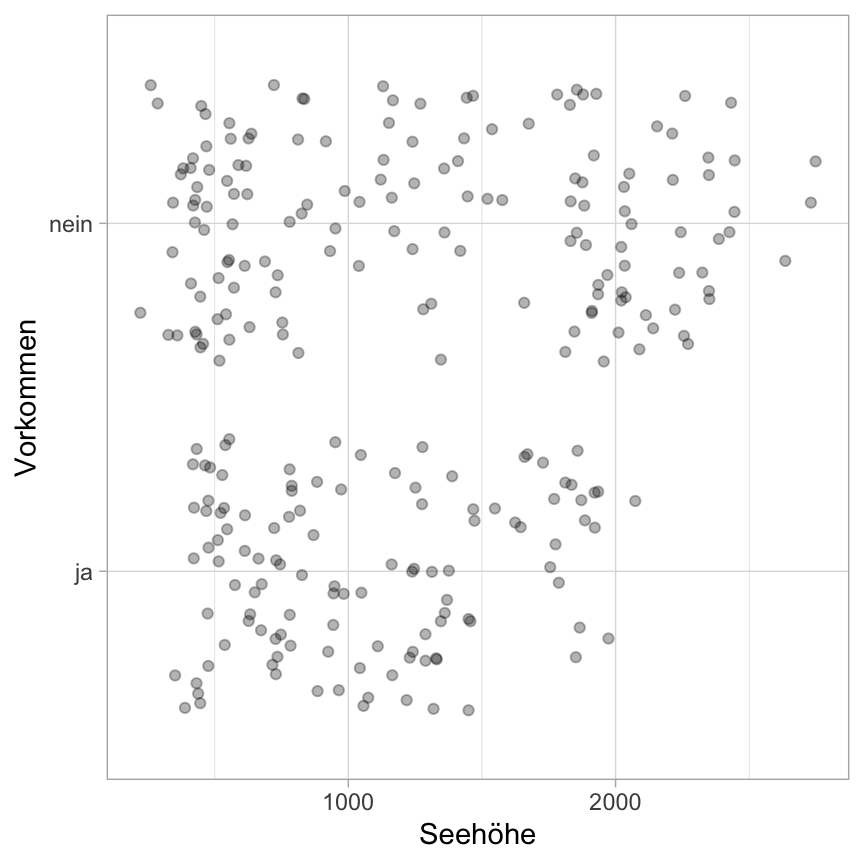
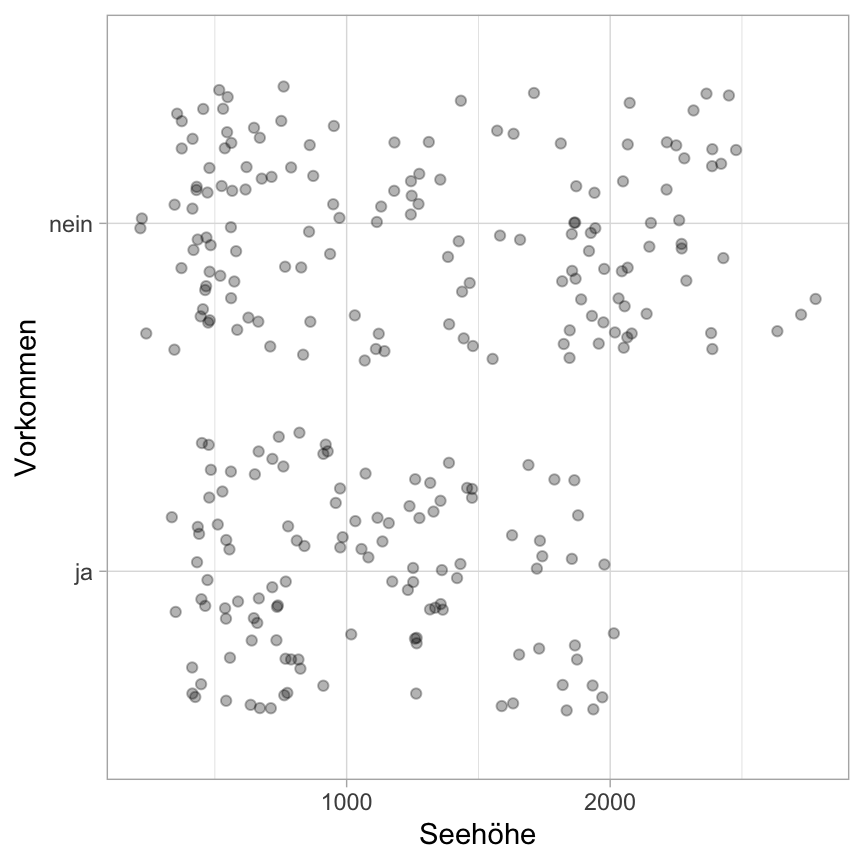
w13

diff --git a/docs/content/uebungen/ue_w12_w13.html b/docs/content/uebungen/ue_w12_w13.html
@@ -267,7 +267,7 @@ window.Quarto = {
  <span class="dropdown-text">10. Streifgebiete</span></a>
   </li>  
         <li>
-    <a class="dropdown-item" href="../../content/uebungen/ue_w12_w13_hr.qmd">
+    <a class="dropdown-item" href="../../content/uebungen/ue_w12_w13.html">
  <span class="dropdown-text">11. &amp; 12. Habitatselektion</span></a>
   </li>  
     </ul>
@@ -882,8 +882,8 @@ Lösungsvorschlag
 <span id="cb30-5"><a href="#cb30-5" aria-hidden="true" tabindex="-1"></a><span class="fu">AIC</span>(m1, m2)</span></code><button title="In die Zwischenablage kopieren" class="code-copy-button"><i class="bi"></i></button></pre></div>
 <div class="cell-output cell-output-stdout">
 <pre><code>   df      AIC
-m1  3 8851.085
-m2  3 8411.510</code></pre>
+m1  3 8819.620
+m2  3 8398.238</code></pre>
 </div>
 <div class="sourceCode cell-code" id="cb32"><pre class="sourceCode r code-with-copy"><code class="sourceCode r"><span id="cb32-1"><a href="#cb32-1" aria-hidden="true" tabindex="-1"></a><span class="co"># 4: Modell mit log1p-Transformation</span></span>
 <span id="cb32-2"><a href="#cb32-2" aria-hidden="true" tabindex="-1"></a><span class="co"># log1p vermeidet log(0) und gewichtet kleine Distanzen stärker</span></span>
@@ -892,9 +892,9 @@ m2  3 8411.510</code></pre>
 <span id="cb32-5"><a href="#cb32-5" aria-hidden="true" tabindex="-1"></a><span class="fu">AIC</span>(m1, m2, m2a)</span></code><button title="In die Zwischenablage kopieren" class="code-copy-button"><i class="bi"></i></button></pre></div>
 <div class="cell-output cell-output-stdout">
 <pre><code>    df      AIC
-m1   3 8851.085
-m2   3 8411.510
-m2a  3 8160.192</code></pre>
+m1   3 8819.620
+m2   3 8398.238
+m2a  3 8151.599</code></pre>
 </div>
 <div class="sourceCode cell-code" id="cb34"><pre class="sourceCode r code-with-copy"><code class="sourceCode r"><span id="cb34-1"><a href="#cb34-1" aria-hidden="true" tabindex="-1"></a><span class="fu">summary</span>(m2a)</span></code><button title="In die Zwischenablage kopieren" class="code-copy-button"><i class="bi"></i></button></pre></div>
 <div class="cell-output cell-output-stdout">
@@ -905,17 +905,17 @@ glm(formula = case_ ~ wald + log1p(dsiedlung), family = binomial(),
 
 Coefficients:
                  Estimate Std. Error z value Pr(&gt;|z|)    
-(Intercept)      -9.04762    0.29851  -30.31   &lt;2e-16 ***
-wald              1.14779    0.06571   17.47   &lt;2e-16 ***
-log1p(dsiedlung)  0.98584    0.04698   20.98   &lt;2e-16 ***
+(Intercept)      -9.01199    0.29999  -30.04   &lt;2e-16 ***
+wald              1.15926    0.06597   17.57   &lt;2e-16 ***
+log1p(dsiedlung)  0.97964    0.04734   20.70   &lt;2e-16 ***
 ---
 Signif. codes:  0 '***' 0.001 '**' 0.01 '*' 0.05 '.' 0.1 ' ' 1
 
 (Dispersion parameter for binomial family taken to be 1)
 
     Null deviance: 9550.3  on 15674  degrees of freedom
-Residual deviance: 8154.2  on 15672  degrees of freedom
-AIC: 8160.2
+Residual deviance: 8145.6  on 15672  degrees of freedom
+AIC: 8151.6
 
 Number of Fisher Scoring iterations: 7</code></pre>
 </div>
@@ -1008,8 +1008,8 @@ Lösungsvorschlag
 <span id="cb38-5"><a href="#cb38-5" aria-hidden="true" tabindex="-1"></a><span class="fu">AIC</span>(m2a, m3a)</span></code><button title="In die Zwischenablage kopieren" class="code-copy-button"><i class="bi"></i></button></pre></div>
 <div class="cell-output cell-output-stdout">
 <pre><code>    df      AIC
-m2a  3 8160.192
-m3a  5 7760.581</code></pre>
+m2a  3 8151.599
+m3a  5 7726.103</code></pre>
 </div>
 <div class="sourceCode cell-code" id="cb40"><pre class="sourceCode r code-with-copy"><code class="sourceCode r"><span id="cb40-1"><a href="#cb40-1" aria-hidden="true" tabindex="-1"></a><span class="fu">summary</span>(m3a)</span></code><button title="In die Zwischenablage kopieren" class="code-copy-button"><i class="bi"></i></button></pre></div>
 <div class="cell-output cell-output-stdout">
@@ -1020,19 +1020,19 @@ glm(formula = case_ ~ wald + wald:tod_ + log1p(dsiedlung) + log1p(dsiedlung):tod
 
 Coefficients:
                            Estimate Std. Error z value Pr(&gt;|z|)    
-(Intercept)                -9.51028    0.30773  -30.90   &lt;2e-16 ***
-wald                        3.27664    0.17569   18.65   &lt;2e-16 ***
-log1p(dsiedlung)            0.78389    0.04847   16.17   &lt;2e-16 ***
-wald:tod_night             -3.32061    0.19886  -16.70   &lt;2e-16 ***
-tod_night:log1p(dsiedlung)  0.36748    0.02790   13.17   &lt;2e-16 ***
+(Intercept)                -9.73147    0.30898  -31.50   &lt;2e-16 ***
+wald                        3.23728    0.17294   18.72   &lt;2e-16 ***
+log1p(dsiedlung)            0.82547    0.04846   17.03   &lt;2e-16 ***
+wald:tod_night             -3.23947    0.19609  -16.52   &lt;2e-16 ***
+tod_night:log1p(dsiedlung)  0.35905    0.02747   13.07   &lt;2e-16 ***
 ---
 Signif. codes:  0 '***' 0.001 '**' 0.01 '*' 0.05 '.' 0.1 ' ' 1
 
 (Dispersion parameter for binomial family taken to be 1)
 
     Null deviance: 9550.3  on 15674  degrees of freedom
-Residual deviance: 7750.6  on 15670  degrees of freedom
-AIC: 7760.6
+Residual deviance: 7716.1  on 15670  degrees of freedom
+AIC: 7726.1
 
 Number of Fisher Scoring iterations: 7</code></pre>
 </div>

diff --git a/docs/content/slides/09/09_me_4.html b/docs/content/slides/09/09_me_4.html
@@ -341,12 +341,12 @@ w(\mathbf{X}(s); \mathbf{\beta}) = \exp(X_1(s)\beta_1 + \dots + X_k(s)\beta_k)
 <pre><code># A tibble: 6 × 4
   case_       x_       y_ elevation
 * &lt;lgl&gt;    &lt;dbl&gt;    &lt;dbl&gt;     &lt;dbl&gt;
-1 FALSE 1783768. 2403218.      96.4
-2 FALSE 1783687. 2402264.     103. 
-3 FALSE 1782870. 2404125.      98.0
-4 FALSE 1783202. 2401597.     103. 
-5 FALSE 1782254. 2402336.      99.9
-6 FALSE 1783692. 2403179.      97.8</code></pre>
+1 FALSE 1781787. 2403007.      98.1
+2 FALSE 1782727. 2403151.      97.7
+3 FALSE 1781411. 2404122.     103. 
+4 FALSE 1781886. 2404161.     107. 
+5 FALSE 1781049. 2403096.      95.0
+6 FALSE 1783035. 2402731.     105. </code></pre>
 </div>
 </div>
 </section>
@@ -371,16 +371,16 @@ glm(formula = case_ ~ elevation, family = binomial(), data = m3)
 
 Coefficients:
              Estimate Std. Error z value Pr(&gt;|z|)    
-(Intercept) -7.430957   0.331289  -22.43   &lt;2e-16 ***
-elevation    0.050019   0.003205   15.61   &lt;2e-16 ***
+(Intercept) -7.515044   0.329143  -22.83   &lt;2e-16 ***
+elevation    0.050852   0.003184   15.97   &lt;2e-16 ***
 ---
 Signif. codes:  0 '***' 0.001 '**' 0.01 '*' 0.05 '.' 0.1 ' ' 1
 
 (Dispersion parameter for binomial family taken to be 1)
 
     Null deviance: 20133  on 33043  degrees of freedom
-Residual deviance: 19899  on 33042  degrees of freedom
-AIC: 19903
+Residual deviance: 19888  on 33042  degrees of freedom
+AIC: 19892
 
 Number of Fisher Scoring iterations: 5</code></pre>
 </div>
@@ -408,7 +408,7 @@ Number of Fisher Scoring iterations: 5</code></pre>
 <div class="sourceCode cell-code" id="cb9"><pre class="sourceCode r code-with-copy"><code class="sourceCode r"><span id="cb9-1"><a aria-hidden="true" tabindex="-1"></a><span class="fu">coef</span>(mod1)</span></code><button title="Copy to Clipboard" class="code-copy-button"><i class="bi"></i></button></pre></div>
 <div class="cell-output cell-output-stdout">
 <pre><code>(Intercept)   elevation 
--7.43095690  0.05001906 </code></pre>
+-7.51504373  0.05085177 </code></pre>
 </div>
 </div>
 <p>Nehmen wir für Punkt <span class="math inline">\(s_1\)</span> eine Seehöhe von 100 m und für Punkt <span class="math inline">\(s_2\)</span> eine Seehöhe von 101 m an. Die Relative Selektionsstärke für Punkt <span class="math inline">\(s_2\)</span> gegenüber Punkte <span class="math inline">\(s_1\)</span> ist dann:</p>
@@ -437,7 +437,7 @@ RSS(s_2, s_1) &amp;=\frac{w(s_2)}{w(s_1)} = \frac{\exp(101 \beta_\text{dem})}{\e
 <div class="sourceCode cell-code" id="cb11"><pre class="sourceCode r code-with-copy"><code class="sourceCode r"><span id="cb11-1"><a aria-hidden="true" tabindex="-1"></a><span class="fu">exp</span>(<span class="fu">coef</span>(mod1)[<span class="dv">2</span>])</span></code><button title="Copy to Clipboard" class="code-copy-button"><i class="bi"></i></button></pre></div>
 <div class="cell-output cell-output-stdout">
 <pre><code>elevation 
- 1.051291 </code></pre>
+ 1.052167 </code></pre>
 </div>
 </div>
 <div class="fragment">
@@ -446,7 +446,7 @@ RSS(s_2, s_1) &amp;=\frac{w(s_2)}{w(s_1)} = \frac{\exp(101 \beta_\text{dem})}{\e
 <div class="sourceCode cell-code" id="cb13"><pre class="sourceCode r code-with-copy"><code class="sourceCode r"><span id="cb13-1"><a aria-hidden="true" tabindex="-1"></a><span class="fu">exp</span>(<span class="fu">coef</span>(mod1)[<span class="dv">2</span>] <span class="sc">*</span> <span class="dv">101</span>) <span class="sc">/</span> <span class="fu">exp</span>(<span class="fu">coef</span>(mod1)[<span class="dv">2</span>] <span class="sc">*</span> <span class="dv">100</span>)</span></code><button title="Copy to Clipboard" class="code-copy-button"><i class="bi"></i></button></pre></div>
 <div class="cell-output cell-output-stdout">
 <pre><code>elevation 
- 1.051291 </code></pre>
+ 1.052167 </code></pre>
 </div>
 </div>
 </div>
@@ -493,17 +493,17 @@ glm(formula = case_ ~ elevation + elevation:tod_, family = binomial(),
 
 Coefficients:
                       Estimate Std. Error z value Pr(&gt;|z|)    
-(Intercept)         -7.3279163  0.3466605 -21.139  &lt; 2e-16 ***
-elevation            0.0255878  0.0034715   7.371  1.7e-13 ***
-elevation:tod_night  0.0297296  0.0008671  34.287  &lt; 2e-16 ***
+(Intercept)         -7.3012688  0.3501598 -20.851  &lt; 2e-16 ***
+elevation            0.0252818  0.0035048   7.213 5.45e-13 ***
+elevation:tod_night  0.0298061  0.0008671  34.374  &lt; 2e-16 ***
 ---
 Signif. codes:  0 '***' 0.001 '**' 0.01 '*' 0.05 '.' 0.1 ' ' 1
 
 (Dispersion parameter for binomial family taken to be 1)
 
     Null deviance: 20133  on 33043  degrees of freedom
-Residual deviance: 17059  on 33041  degrees of freedom
-AIC: 17065
+Residual deviance: 17045  on 33041  degrees of freedom
+AIC: 17051
 
 Number of Fisher Scoring iterations: 7</code></pre>
 </div>

diff --git a/docs/content/uebungen/ue_w11_hr.html b/docs/content/uebungen/ue_w11_hr.html
@@ -238,7 +238,7 @@ pre > code.sourceCode > span > a:first-child::before { text-decoration: underlin
  <span class="dropdown-text">10. Streifgebiete</span></a>
   </li>  
         <li>
-    <a class="dropdown-item" href="../../content/uebungen/ue_w12_w13_hr.qmd">
+    <a class="dropdown-item" href="../../content/uebungen/ue_w12_w13.html">
  <span class="dropdown-text">11. &amp; 12. Habitatselektion</span></a>
   </li>  
     </ul>

diff --git a/docs/content/uebungen/ue_w4_luchs.html b/docs/content/uebungen/ue_w4_luchs.html
@@ -238,7 +238,7 @@ pre > code.sourceCode > span > a:first-child::before { text-decoration: underlin
  <span class="dropdown-text">10. Streifgebiete</span></a>
   </li>  
         <li>
-    <a class="dropdown-item" href="../../content/uebungen/ue_w12_w13_hr.qmd">
+    <a class="dropdown-item" href="../../content/uebungen/ue_w12_w13.html">
  <span class="dropdown-text">11. &amp; 12. Habitatselektion</span></a>
   </li>  
     </ul>

diff --git a/docs/content/uebungen/uebung_w1.html b/docs/content/uebungen/uebung_w1.html
@@ -238,7 +238,7 @@ pre > code.sourceCode > span > a:first-child::before { text-decoration: underlin
  <span class="dropdown-text">10. Streifgebiete</span></a>
   </li>  
         <li>
-    <a class="dropdown-item" href="../../content/uebungen/ue_w12_w13_hr.qmd">
+    <a class="dropdown-item" href="../../content/uebungen/ue_w12_w13.html">
  <span class="dropdown-text">11. &amp; 12. Habitatselektion</span></a>
   </li>  
     </ul>

diff --git a/docs/content/vorlesungen/04-vorlesung.html b/docs/content/vorlesungen/04-vorlesung.html
@@ -237,7 +237,7 @@ pre > code.sourceCode > span > a:first-child::before { text-decoration: underlin
  <span class="dropdown-text">10. Streifgebiete</span></a>
   </li>  
         <li>
-    <a class="dropdown-item" href="../../content/uebungen/ue_w12_w13_hr.qmd">
+    <a class="dropdown-item" href="../../content/uebungen/ue_w12_w13.html">
  <span class="dropdown-text">11. &amp; 12. Habitatselektion</span></a>
   </li>  
     </ul>

diff --git a/docs/content/vorlesungen/01-vorlesung.html b/docs/content/vorlesungen/01-vorlesung.html
@@ -203,7 +203,7 @@ ul.task-list li input[type="checkbox"] {
  <span class="dropdown-text">10. Streifgebiete</span></a>
   </li>  
         <li>
-    <a class="dropdown-item" href="../../content/uebungen/ue_w12_w13_hr.qmd">
+    <a class="dropdown-item" href="../../content/uebungen/ue_w12_w13.html">
  <span class="dropdown-text">11. &amp; 12. Habitatselektion</span></a>
   </li>  
     </ul>

diff --git a/docs/content/vorlesungen/02-vorlesung.html b/docs/content/vorlesungen/02-vorlesung.html
@@ -203,7 +203,7 @@ ul.task-list li input[type="checkbox"] {
  <span class="dropdown-text">10. Streifgebiete</span></a>
   </li>  
         <li>
-    <a class="dropdown-item" href="../../content/uebungen/ue_w12_w13_hr.qmd">
+    <a class="dropdown-item" href="../../content/uebungen/ue_w12_w13.html">
  <span class="dropdown-text">11. &amp; 12. Habitatselektion</span></a>
   </li>  
     </ul>

diff --git a/docs/content/vorlesungen/03-vorlesung.html b/docs/content/vorlesungen/03-vorlesung.html
@@ -203,7 +203,7 @@ ul.task-list li input[type="checkbox"] {
  <span class="dropdown-text">10. Streifgebiete</span></a>
   </li>  
         <li>
-    <a class="dropdown-item" href="../../content/uebungen/ue_w12_w13_hr.qmd">
+    <a class="dropdown-item" href="../../content/uebungen/ue_w12_w13.html">
  <span class="dropdown-text">11. &amp; 12. Habitatselektion</span></a>
   </li>  
     </ul>

diff --git a/docs/content/vorlesungen/05-vorlesung.html b/docs/content/vorlesungen/05-vorlesung.html
@@ -203,7 +203,7 @@ ul.task-list li input[type="checkbox"] {
  <span class="dropdown-text">10. Streifgebiete</span></a>
   </li>  
         <li>
-    <a class="dropdown-item" href="../../content/uebungen/ue_w12_w13_hr.qmd">
+    <a class="dropdown-item" href="../../content/uebungen/ue_w12_w13.html">
  <span class="dropdown-text">11. &amp; 12. Habitatselektion</span></a>
   </li>  
     </ul>

diff --git a/docs/content/vorlesungen/06-vorlesung.html b/docs/content/vorlesungen/06-vorlesung.html
@@ -203,7 +203,7 @@ ul.task-list li input[type="checkbox"] {
  <span class="dropdown-text">10. Streifgebiete</span></a>
   </li>  
         <li>
-    <a class="dropdown-item" href="../../content/uebungen/ue_w12_w13_hr.qmd">
+    <a class="dropdown-item" href="../../content/uebungen/ue_w12_w13.html">
  <span class="dropdown-text">11. &amp; 12. Habitatselektion</span></a>
   </li>  
     </ul>

diff --git a/docs/content/vorlesungen/07-vorlesung.html b/docs/content/vorlesungen/07-vorlesung.html
@@ -203,7 +203,7 @@ ul.task-list li input[type="checkbox"] {
  <span class="dropdown-text">10. Streifgebiete</span></a>
   </li>  
         <li>
-    <a class="dropdown-item" href="../../content/uebungen/ue_w12_w13_hr.qmd">
+    <a class="dropdown-item" href="../../content/uebungen/ue_w12_w13.html">
  <span class="dropdown-text">11. &amp; 12. Habitatselektion</span></a>
   </li>  
     </ul>
